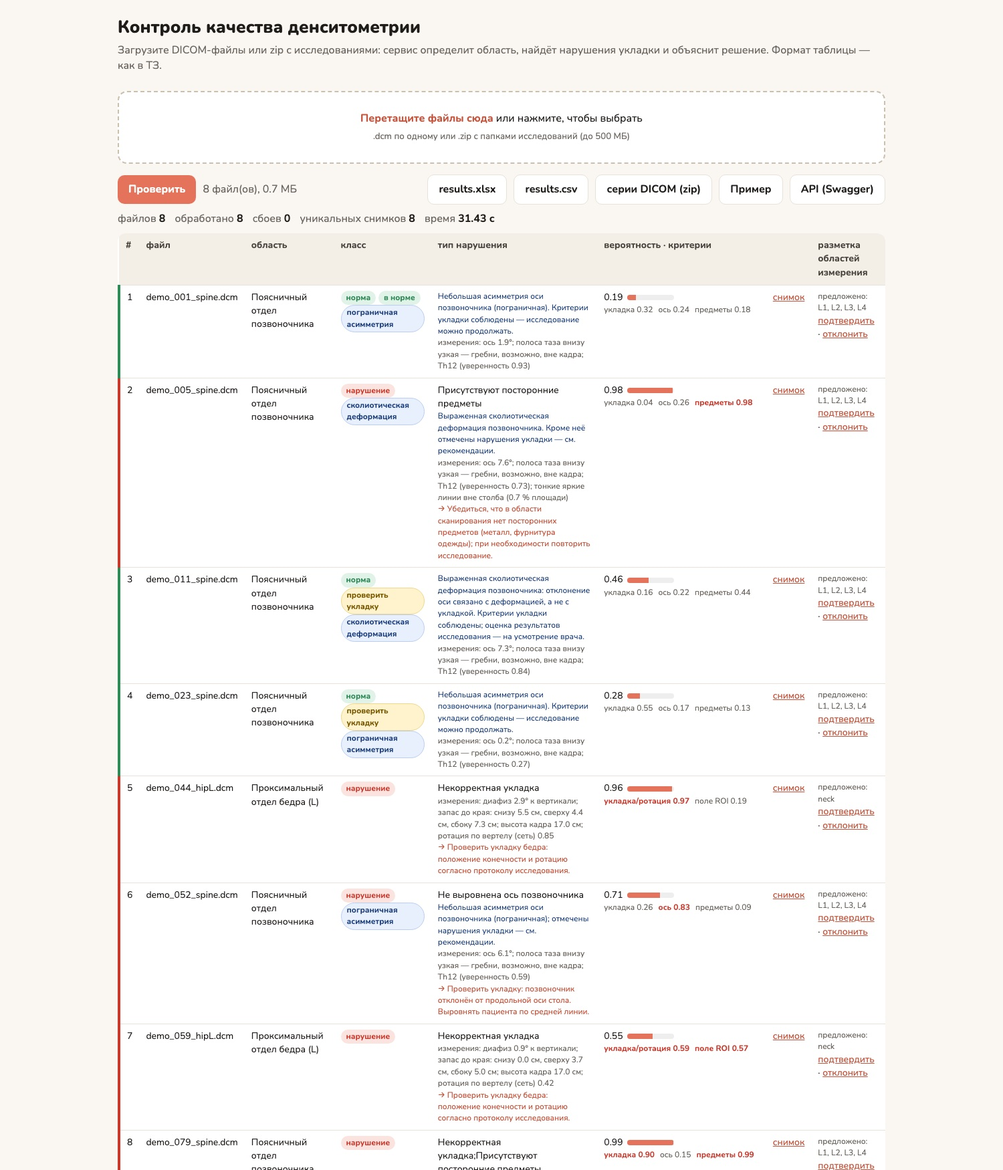
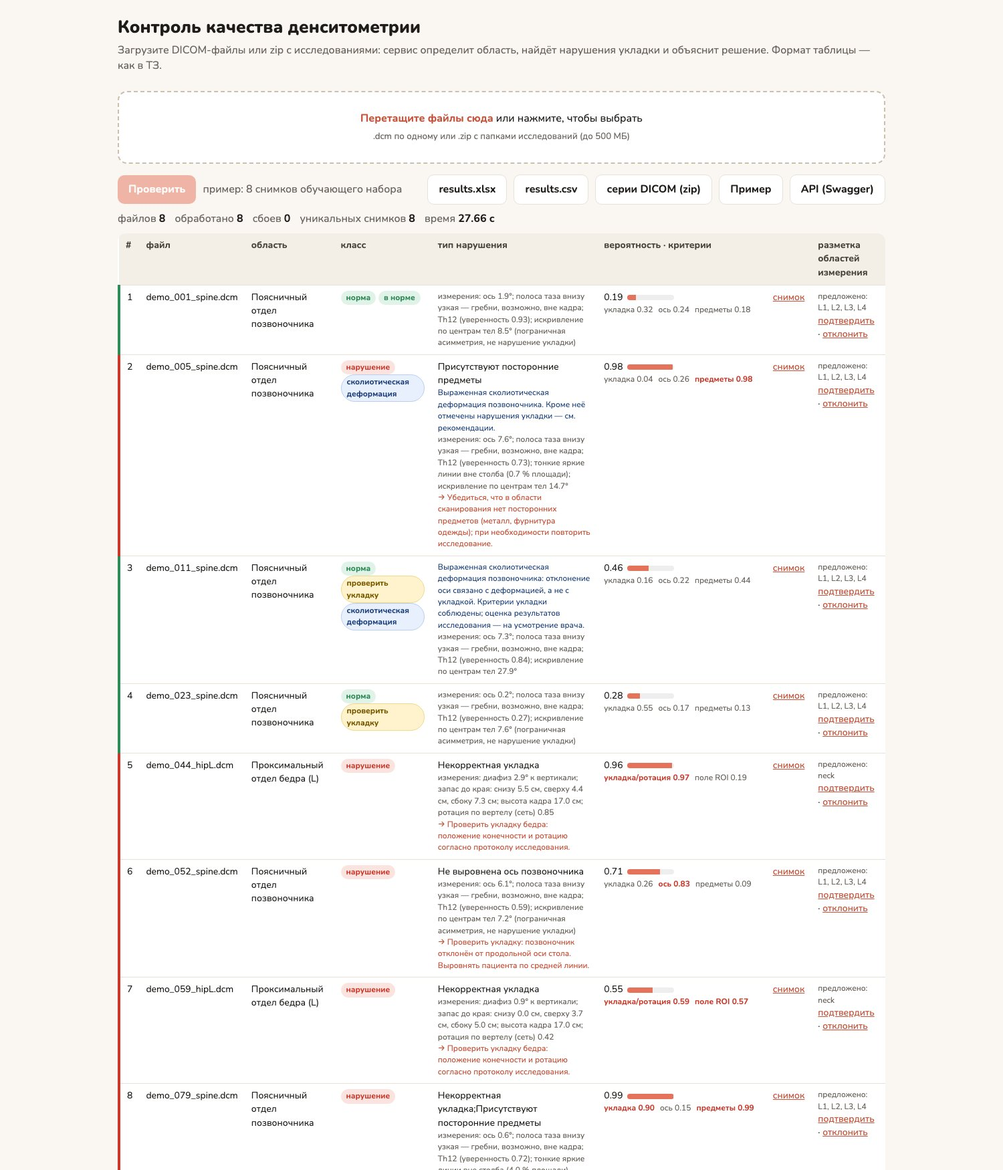
Демо-снимки прогоняются на сервере (материалы постановщика наружу не отдаются); пограничная асимметрия — строкой в измерениях, плашка только при деформации
- POST /api/demo: копирует demo_*.dcm из DXAQC_DEMO_DIR (не раздаётся) во входную папку прогона; GET /files/demo_* больше нет.
- Пограничная асимметрия (5–10°) есть у 29 % нормальных снимков вне обучения — как плашка это шум; остаётся строкой «искривление по
  центрам тел …°» в измерениях. Плашка, текст решения, строка на серии и в SR — только при деформации ≥ 10°.

diff --git a/src/dxaqc/static/index.html b/src/dxaqc/static/index.html
@@ -85,11 +85,10 @@ const SHORT={spine_positioning:'укладка',spine_axis_tilt:'ось',spine_a
 async function runDemo(){
   const d=$('#demo'); d.disabled=true; d.textContent='Загружаю пример…'; $('#err').style.display='none';
   try{
-    const j=await (await fetch('api/demo')).json();
-    if(!j.files||!j.files.length) throw new Error('на сервере нет демонстрационных файлов');
-    files=[];
-    for(const n of j.files){const b=await (await fetch('files/'+n)).blob(); files.push(new File([b],n));}
-    pick(); $('#go').click();
+    $('#tbl').innerHTML=''; $('#stat').innerHTML='';
+    const r=await fetch('api/demo',{method:'POST'}); const j=await r.json();
+    if(!r.ok||j.error) throw new Error(j.error||j.detail||r.statusText);
+    $('#picked').textContent=`пример: ${j.rows.length} снимков обучающего набора`; render(j);
   }catch(e){$('#err').textContent='Ошибка: '+e.message;$('#err').style.display='block';}
   d.disabled=false; d.textContent='Пример';
 }
@@ -115,7 +114,7 @@ function render(j){
     const lvl=r.details&&r.details.level;
     const LEVEL={repeat:['bad','переснять'],check:['warn','проверить укладку'],ok:['ok','в норме']};
     const rev=(lvl&&lvl!=='repeat'&&LEVEL[lvl]?`<span class="pill ${LEVEL[lvl][0]}" title="${lvl==='check'?'критерий у порога или выше мягкого порога: '+((r.details.check_flags||[]).concat(r.details.review_flags||[]).filter((v,i,a)=>a.indexOf(v)===i).map(k=>SHORT[k]||k).join(', ')):'все критерии ниже мягких порогов'}">${LEVEL[lvl][1]}</span> `:'')
-      +(r.details&&r.details.scoliosis&&r.details.scoliosis.grade&&r.details.scoliosis.grade!=='none'?`<span class="pill info" title="угол искривления по центрам тел позвонков ${r.details.scoliosis.bend_deg}°; не критерий ТЗ">${esc(r.details.scoliosis.title||'сколиоз')}</span> `:'');
+      +(r.details&&r.details.scoliosis&&r.details.scoliosis.grade==='marked'?`<span class="pill info" title="угол искривления по центрам тел позвонков ${r.details.scoliosis.bend_deg}°; не критерий ТЗ">${esc(r.details.scoliosis.title||'сколиотическая деформация')}</span> `:'');
     const crit=r.details?Object.entries(r.details.probs).map(([k,v])=>`<span class="${r.violation_type&&v>=0.5?'hit':''}">${SHORT[k]||k} ${v.toFixed(2)}</span>`).join(''):'';
     const p=r.quality_prob!=null?Number(r.quality_prob):0;
     return `<tr class="${st}"><td>${r.n+1}</td><td>${esc(r.path_to_study)}${r.duplicate_of?`<div class="muted">дубликат ${esc(r.duplicate_of)}</div>`:''}</td>

diff --git a/src/dxaqc/api.py b/src/dxaqc/api.py
@@ -37,6 +37,7 @@ RUN_TTL_MIN = int(os.environ.get("DXAQC_RUN_TTL_MIN", "180"))
 MAX_UPLOAD_MB = int(os.environ.get("DXAQC_MAX_UPLOAD_MB", "500"))
 STATIC = os.path.join(os.path.dirname(os.path.abspath(__file__)), "static")
 FILES_DIR = os.environ.get("DXAQC_FILES", "")            # необязательная папка с материалами (презентация, демо-запись)
+DEMO_DIR = os.environ.get("DXAQC_DEMO_DIR", os.path.join(os.path.dirname(FILES_DIR.rstrip("/")), "demo") if FILES_DIR else "")   # demo_*.dcm: прогон только на сервере
 
 app = FastAPI(title="DXA quality control", version=__version__,
               description="Контроль качества денситометрии: область → нарушение → тип (ЛЦТ-2026, задача №4)")
@@ -92,14 +93,44 @@ def files(name: str):
     return FileResponse(path, filename=os.path.basename(name))
 
 
+def _demo_names() -> list[str]:
+    if not DEMO_DIR or not os.path.isdir(DEMO_DIR):
+        return []
+    return sorted(n for n in os.listdir(DEMO_DIR) if n.startswith("demo_") and n.lower().endswith(".dcm"))
+
+
 @app.get("/api/demo")
 def demo_files():
-    """Имена демонстрационных DICOM (demo_*.dcm в папке DXAQC_FILES): страница скачивает их и прогоняет как обычную загрузку,
-    чтобы результат можно было посмотреть без своих снимков. Снимки — из обучающего набора постановщика."""
-    if not FILES_DIR or not os.path.isdir(FILES_DIR):
-        return {"files": []}
-    names = sorted(n for n in os.listdir(FILES_DIR) if n.startswith("demo_") and n.lower().endswith(".dcm"))
-    return {"files": names}
+    """Имена демонстрационных снимков (demo_*.dcm в DXAQC_DEMO_DIR). Сами файлы наружу не отдаются — это материалы
+    постановщика; прогон делает сервер (POST /api/demo), результат такой же, как у обычной загрузки."""
+    return {"files": _demo_names()}
+
+
+@app.post("/api/demo")
+def demo_run():
+    """Прогнать демонстрационные снимки на сервере и вернуть результат в формате /api/analyze."""
+    names = _demo_names()
+    if not names:
+        raise HTTPException(404, "на сервере нет демонстрационных снимков")
+    _cleanup()
+    run_id = time.strftime("%Y%m%d-%H%M%S-") + uuid.uuid4().hex[:6]
+    rdir = os.path.join(RUNS_DIR, run_id)
+    inp, out = os.path.join(rdir, "input"), os.path.join(rdir, "output")
+    os.makedirs(inp)
+    for n in names:
+        shutil.copy(os.path.join(DEMO_DIR, n), os.path.join(inp, n))
+    return _finish_run(run_id, rdir, inp, out)
+
+
+def _finish_run(run_id: str, rdir: str, inp: str, out: str) -> dict:
+    with _lock:                                                   # модель одна, MPS/CUDA не любят гонки
+        rows, s = run(inp, out, predictor(), fmt="both")
+    for i, r in enumerate(rows):
+        r["n"] = i
+        r["input_path"] = os.path.join(inp, r["path_to_study"])
+    json.dump(rows, open(os.path.join(rdir, "rows.json"), "w"), ensure_ascii=False)
+    public = [{k: r[k] for k in OFFICIAL + ["side", "level", "duplicate_of", "error_message", "n"]} | {"details": json.loads(r["details"]) if r["details"] else None} for r in rows]
+    return {"run_id": run_id, "summary": s.__dict__ | {"xlsx": f"api/runs/{run_id}/results.xlsx", "csv": f"api/runs/{run_id}/results.csv"}, "rows": public}
 
 
 @app.post("/api/analyze")
@@ -128,14 +159,7 @@ async def analyze(files: list[UploadFile] = File(...)):
             except Exception as exc:  # noqa: BLE001
                 raise HTTPException(400, f"архив {name} не распакован: {exc}") from exc
             os.remove(path)
-    with _lock:                                                   # модель одна, MPS/CUDA не любят гонки
-        rows, s = run(inp, out, predictor(), fmt="both")
-    for i, r in enumerate(rows):
-        r["n"] = i
-        r["input_path"] = os.path.join(inp, r["path_to_study"])
-    json.dump(rows, open(os.path.join(rdir, "rows.json"), "w"), ensure_ascii=False)
-    public = [{k: r[k] for k in OFFICIAL + ["side", "duplicate_of", "error_message", "n"]} | {"details": json.loads(r["details"]) if r["details"] else None} for r in rows]
-    return {"run_id": run_id, "summary": s.__dict__ | {"xlsx": f"api/runs/{run_id}/results.xlsx", "csv": f"api/runs/{run_id}/results.csv"}, "rows": public}
+    return _finish_run(run_id, rdir, inp, out)
 
 
 def _rows(run_id: str) -> list[dict]:

diff --git a/src/dxaqc/scoliosis.py b/src/dxaqc/scoliosis.py
@@ -10,6 +10,7 @@
 соседних отрезков, наибольшая минус наименьшая. Это «центроидный» вариант угла Кобба; по замыкательным
 пластинкам на денситометрии в 0,6 мм/px измерять нечем. Пороги клинические, не подобранные по данным:
 < 5° — искривления нет; 5–10° — пограничная асимметрия; ≥ 10° — сколиотическая деформация.
+Пограничная асимметрия показывается только строкой в измерениях (у 29 % нормальных снимков вне обучения — как плашка это был бы шум).
 На снимках вне обучения правило помечает деформацией 18 из 94 снимков позвоночника (6 из 12 с пометкой
 эксперта «сколиоз») и поднимает F1 критерия оси с 0,42 до 0,57 при 10 нарушениях (docs/05, эксп. 22).
 """
@@ -69,9 +70,6 @@ def decision_text(grade: str, other_violations: bool) -> str:
                     "см. рекомендации.")
         return ("Выраженная сколиотическая деформация позвоночника: отклонение оси связано с деформацией, а не с укладкой. "
                 "Критерии укладки соблюдены; оценка результатов исследования — на усмотрение врача.")
-    if grade == GRADE_BORDERLINE:
-        if other_violations:
-            return "Небольшая асимметрия оси позвоночника (пограничная); отмечены нарушения укладки — см. рекомендации."
-        return ("Небольшая асимметрия оси позвоночника (пограничная). Критерии укладки соблюдены — "
-                "исследование можно продолжать.")
+    # пограничная асимметрия (5–10°) есть у ~30 % нормальных снимков вне обучения — отдельным сообщением это шум;
+    # она показывается строкой в измерениях (criteria.explain), без плашки и без текста решения
     return ""

diff --git a/presentation/build_deck.py b/presentation/build_deck.py
@@ -321,7 +321,7 @@ d.box(s, d.L + Inches(3.85), y + Inches(0.02), d.CW - Inches(3.85), Inches(3.3),
       "Мера: угол искривления по центрам тел L1–L5 — разность направлений соседних отрезков ломаной. Пороги клинические, по данным не подбирались: "
       "5–10° — пограничная асимметрия, не менее 10° — сколиотическая деформация.\n"
       "При деформации отклонение оси объясняется деформацией, а не укладкой: критерий оси снимок не бракует, лаборант и врач видят отдельную плашку "
-      "и текст «критерии укладки соблюдены; оценка результатов — на усмотрение врача». При пограничной асимметрии — «исследование можно продолжать».\n"
+      "и текст «критерии укладки соблюдены; оценка результатов — на усмотрение врача». Пограничная асимметрия показывается строкой в измерениях, без плашки.\n"
       "Проверка вне обучения: все 12 снимков с пометкой эксперта «сколиоз» размечены по оси как норма; F1 критерия оси 0,40 → 0,53, "
       "ROC-AUC 0,80 → 0,81; деформацией помечено 18 из 94 снимков с достаточным числом ориентиров. Исследование лёжа непригодно для оценки статики, "
       "поэтому функция — дополнительная, по согласованию с экспертами задачи (16.10.2026).", 15)

diff --git a/src/dxaqc/viz.py b/src/dxaqc/viz.py
@@ -74,13 +74,12 @@ def draw_overlay(img: np.ndarray, region: str, details: dict, verdict: dict, thr
     level = str(details.get("level") or verdict.get("level") or "")
     head = f"{'VIOLATION' if cls else 'OK'}  p={float(verdict.get('quality_prob', 0)):.2f}" + (f"  level: {level}" if level else "")
     scol = details.get("scoliosis") or {}
-    extra = 1 if scol.get("grade") and scol.get("grade") != "none" else 0
+    extra = 1 if scol.get("grade") == "marked" else 0
     cv2.rectangle(can, (0, 0), (w * scale, 22 + 16 * (len(probs) + extra)), (30, 30, 30), -1)
     cv2.putText(can, head, (6, y), cv2.FONT_HERSHEY_SIMPLEX, 0.5, bad_col if cls else ok_col, 1, cv2.LINE_AA)
     if extra:                                        # сколиоз — отдельной строкой, это не критерий ТЗ (шрифты OpenCV без кириллицы)
         y += 16
-        grade = {"borderline": "borderline asymmetry", "marked": "scoliotic deformity"}.get(scol["grade"], scol["grade"])
-        cv2.putText(can, f"scoliosis: {grade}, {scol.get('bend_deg')} deg (not a criterion)" + ("; axis not penalized" if scol.get("axis_damped") else ""),
+        cv2.putText(can, f"scoliotic deformity: {scol.get('bend_deg')} deg (not a criterion)" + ("; axis not penalized" if scol.get("axis_damped") else ""),
                     (6, y), cv2.FONT_HERSHEY_SIMPLEX, 0.4, (255, 210, 120), 1, cv2.LINE_AA)
     for c, p in probs.items():
         y += 16

diff --git a/src/dxaqc/infer.py b/src/dxaqc/infer.py
@@ -151,8 +151,9 @@ def process_file(path: str, root: str, predictor: Predictor, cache: dict) -> dic
         scol = dict(ex.get("scoliosis") or {}) if ex else {}
         if scol:
             from .scoliosis import GRADE_TITLE, decision_text
-            scol["title"] = GRADE_TITLE.get(scol.get("grade", "none"), "")
-            scol["text"] = decision_text(scol.get("grade", "none"), verdict.quality_class == 1)
+            marked = scol.get("grade") == "marked"                   # плашка и текст — только для выраженной деформации
+            scol["title"] = GRADE_TITLE.get(scol.get("grade", "none"), "") if marked else ""
+            scol["text"] = decision_text(scol.get("grade", "none"), verdict.quality_class == 1) if marked else ""
         row["details"] = json.dumps({"probs": {k: round(v, 4) for k, v in verdict.flag_probs.items()}, "region_by": region_by,
                                      "region_votes": {"width": region_w, "localizers": region_loc, "flexray": region_fx},
                                      "level": verdict.level, "check_flags": verdict.check_flags, "scoliosis": scol,

diff --git a/src/dxaqc/sr.py b/src/dxaqc/sr.py
@@ -72,7 +72,8 @@ def build_sr(src: pydicom.Dataset, row: dict, details: dict) -> pydicom.FileData
         _text("Level", str(row.get("level") or "")),
         _text("Scoliosis", (f"{(details.get('scoliosis') or {}).get('title', '')}: угол искривления по центрам тел "
                             f"{(details.get('scoliosis') or {}).get('bend_deg')}°. {(details.get('scoliosis') or {}).get('text', '')}").strip(": ")
-              if (details.get("scoliosis") or {}).get("grade") not in (None, "", "none") else "не выявлена"),
+              if (details.get("scoliosis") or {}).get("grade") == "marked"
+              else ("не выявлена" + (f" (угол искривления по центрам тел {(details.get('scoliosis') or {}).get('bend_deg')}°)" if (details.get("scoliosis") or {}).get("bend_deg") is not None else ""))),
         _text("Review", "требует проверки врача" if details.get("needs_review") else "уверенное решение"),
         _text("Objects", json.dumps(details.get("objects", []), ensure_ascii=False)),
     ]

diff --git a/src/dxaqc/criteria.py b/src/dxaqc/criteria.py
@@ -374,6 +374,8 @@ def explain(region: str, f: dict, probs: dict, thresholds: dict) -> tuple[str, l
         parts.append(f"Th12 (уверенность {f.get('th12_conf', 0):.2f})")
         if f.get("th_frac40", 0) > 0.003:
             parts.append(f"тонкие яркие линии вне столба ({f.get('th_frac40', 0) * 100:.1f} % площади)")
+        if f.get("scol_bend_deg", 0) >= 5:                      # пограничная асимметрия — как измерение, не как вердикт
+            parts.append(f"искривление по центрам тел {f['scol_bend_deg']:.1f}°" + (" (пограничная асимметрия, не нарушение укладки)" if f["scol_bend_deg"] < 10 else ""))
     else:
         parts.append(f"диафиз {f.get('shaft_img_deg', 0):.1f}° к вертикали")
         parts.append(f"запас до края: снизу {f.get('bottom_cm', 0):.1f} см, сверху {f.get('top_cm', 0):.1f} см, сбоку {f.get('lat_cm', 0):.1f} см")

diff --git a/tests/test_rework.py b/tests/test_rework.py
@@ -56,10 +56,10 @@ def test_scoliosis_grades_and_damping(monkeypatch):
 
 
 def test_decision_text_without_numbers():
-    for grade in (GRADE_BORDERLINE, GRADE_MARKED):
-        for other in (False, True):
-            t = decision_text(grade, other)
-            assert t and not re.search(r"\d", t), t
+    for other in (False, True):
+        t = decision_text(GRADE_MARKED, other)
+        assert t and not re.search(r"\d", t), t
+    assert decision_text(GRADE_BORDERLINE, False) == ""      # пограничная асимметрия — строка в измерениях, не вердикт
     assert decision_text(GRADE_NONE, False) == ""
 
 

diff --git a/docs/USER_GUIDE.md b/docs/USER_GUIDE.md
@@ -52,9 +52,9 @@
 
 Три уровня в колонке «класс»: **переснять** — нарушение по критериям ТЗ (`quality_class = 1`); **проверить укладку** — критерий
 близок к порогу или выше мягкого порога, решение стоит посмотреть глазами; **в норме**. Отдельная синяя плашка **сколиотическая
-деформация / пограничная асимметрия** — не нарушение укладки: при выраженной деформации отклонение оси не бракует снимок, под типом
-нарушения появляется текст «отклонение связано с деформацией, оценка результатов — на усмотрение врача»; при пограничной —
-«исследование можно продолжать».
+деформация** (угол искривления по центрам тел не менее 10°) — не нарушение укладки: отклонение оси не бракует снимок, под типом
+нарушения появляется текст «отклонение связано с деформацией, оценка результатов — на усмотрение врача». Пограничная асимметрия
+(5–10°) показывается строкой в измерениях без плашки — она встречается почти у трети нормальных снимков.
 
 
 Кнопка **«Пример»** на странице прогоняет встроенные демонстрационные снимки (восемь снимков обучающего набора: ось, предметы, сколиоз, снимок у порога, бедро, норма) — результат можно посмотреть без своих файлов; то же открывается по адресу `…/dxa/?demo=1`.

diff --git a/README.md b/README.md
@@ -209,7 +209,7 @@ curl -F "files=@study.zip" http://localhost:8000/api/analyze
 4. **Логистическая регрессия по каждому критерию** на 2–4 признаках; пороги выбраны по максимуму F1 на снимках вне обучения
    (если максимум держится на отрезке порогов, берётся середина отрезка).
 5. **Сколиоз — отдельно от критериев** (`scoliosis.py`): угол искривления по центрам тел Th12, L1–L5; ≥ 10° — сколиотическая
-   деформация, 5–10° — пограничная асимметрия (клинические пороги). При деформации критерий оси не бракует снимок: отклонение
+   деформация (плашка и текст для лаборанта и врача), 5–10° — пограничная асимметрия (только строка в измерениях). При деформации критерий оси не бракует снимок: отклонение
    объясняется деформацией, а не укладкой (так размечал заказчик: все снимки с пометкой «сколиоз» — норма по оси).
 6. **FleXray** (необязательно, MIT CSAIL, веса CC-BY-NC-4.0) — сегментация анатомии без дообучения: второй голос за область,
    площадь таза в кадре и контуры позвонков для объяснения. Без весов в `weights/flexray/` модуль выключен, результат по критериям тот же.

diff --git a/docs/04_Архитектура.md b/docs/04_Архитектура.md
@@ -77,7 +77,7 @@
 7. Сколиоз (`scoliosis.py`) — отдельно от критериев: угол искривления по центрам тел Th12, L1–L5 (разность направлений соседних
    отрезков ломаной); ≥ 10° — сколиотическая деформация, 5–10° — пограничная асимметрия. При деформации вероятность критерия оси
    умножается на 0,3 (отклонение объясняется деформацией, не укладкой; `DXAQC_SCOLIOSIS_DAMP=0` выключает). В `details.scoliosis` —
-   степень, угол и текст решения для лаборанта и врача.
+   степень, угол и текст решения для лаборанта и врача; плашка и текст — только при деформации, пограничная асимметрия — строкой в измерениях.
 
 Сколиоз, перелом и эндопротез нарушением укладки не считаются.
 
